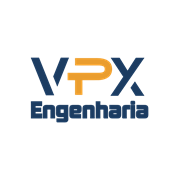
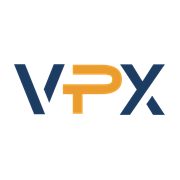
Ícone do app só com VPX e maior

Changed region(s): [[0.0833, 0.3056, 0.9167, 0.6944]]

diff --git a/index.html b/index.html
@@ -10,8 +10,8 @@
 <meta name="apple-mobile-web-app-title" content="VPX Visitas">
 <meta name="apple-mobile-web-app-status-bar-style" content="black-translucent">
 <link rel="manifest" href="manifest.webmanifest">
-<link rel="apple-touch-icon" href="icone-180.png?v=2">
-<link rel="icon" href="icone-192.png?v=2">
+<link rel="apple-touch-icon" href="icone-180.png?v=3">
+<link rel="icon" href="icone-192.png?v=3">
 <link rel="preconnect" href="https://fonts.googleapis.com">
 <link rel="preconnect" href="https://fonts.gstatic.com" crossorigin>
 <link href="https://fonts.googleapis.com/css2?family=Barlow:wght@400;500;600&family=Barlow+Semi+Condensed:wght@600;700&display=swap" rel="stylesheet">
